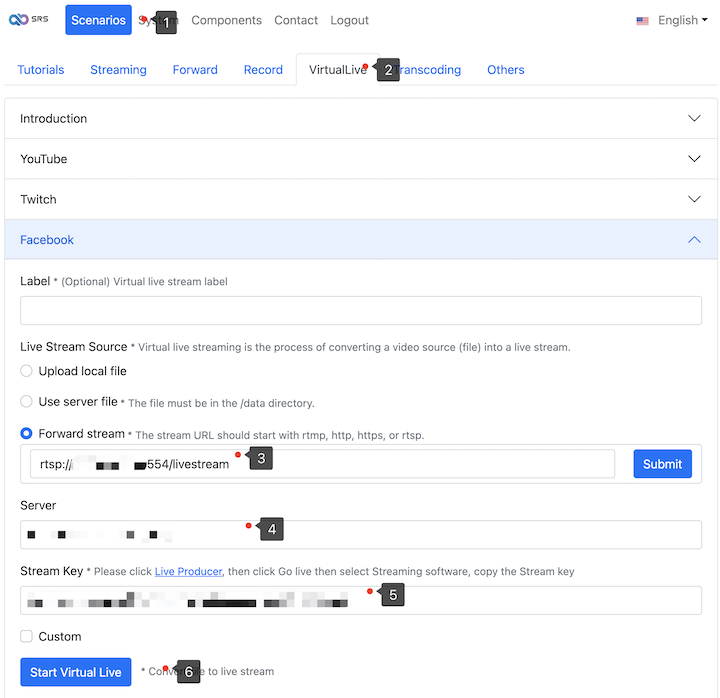
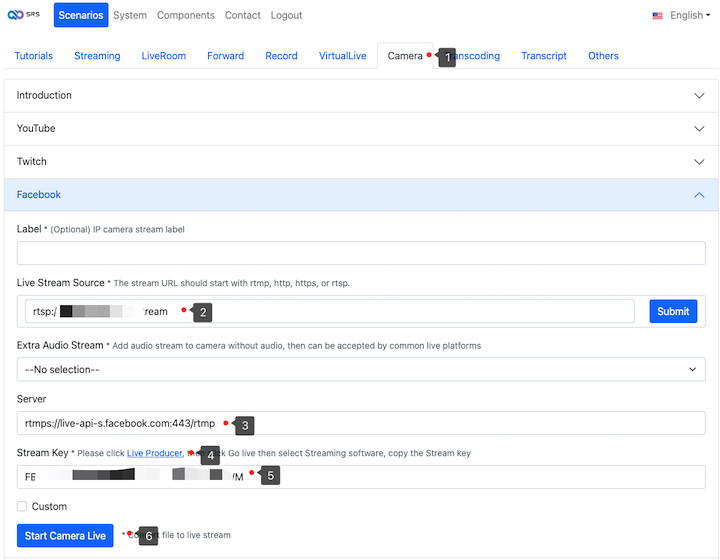
Update doc.

diff --git a/i18n/en-us/docusaurus-plugin-content-blog/2023-10-11-SRS-Stack-Stream-IP-Camera-Events.md b/i18n/en-us/docusaurus-plugin-content-blog/2023-10-11-SRS-Stack-Stream-IP-Camera-Events.md
@@ -27,7 +27,7 @@ IP Camera ---RTSP---> OBS or SRS Stack ---RTMP/RTMPS---> YouTube, Twitch, or Fac
 SRS Stack helps you connect multiple IP cameras and stream live to various platforms, making your live 
 streaming experience stronger.
 
-## Step 1: Create SRS Stack by one click
+## Step 1: Create SRS Stack by One Click
 
 Creating an SRS Stack is simple and can be done with just one click if you use Digital Ocean droplet.
 Please see [How to Setup a Video Streaming Service by 1-Click](./2022-04-09-SRS-Stack-Tutorial.md) for detail.
@@ -44,10 +44,20 @@ After creating the SRS Stack, you can access it through `http://your-server-ip/m
 
 ## Step 2: Pull RTSP Stream from IP Camera
 
-Once you've created your SRS Stack, open the dashboard and navigate to `Scenarios > VirtualLive > YouTube`. 
-Click on `Forward stream`, input the RTSP url, and then click `Submit`.
+Once you've created your SRS Stack, open the dashboard and navigate to `Scenarios > Camera > YouTube`. 
+Click on `Live Stream Source`, input the RTSP url, and then click `Submit`.
 
 ![](/img/blog-2023-10-11-01.png)
+
+## Step 2.1: (Optional) Enable Extra Silent Audio Track
+
+If your camera only provides a video stream, you should enable an additional silent audio track, 
+otherwise, publishing to live platforms like YouTube will fail. SRS Stack can automatically generate 
+a silent audio track for you. Please choose the `Silent Audio Stream` option.
+
+![](/img/blog-2023-10-11-14.png)
+
+SRS Stack will automatically generate a silent audio track, when forwarding the RTSP stream.
 
 ## Step 3: Stream IP Camera to YouTube
 
@@ -55,7 +65,7 @@ To stream your file to YouTube, copy the Stream URL and Stream key from your You
 
 ![](/img/blog-2023-10-11-02.png)
 
-Open the SRS Stack dashboard and click on `Scenarios > VirtualLive > YouTube`. And click `Start Virtual Live` in SRS Stack.
+Open the SRS Stack dashboard and click on `Scenarios > Camera > YouTube`. And click `Start Camera Live` in SRS Stack.
 
 ![](/img/blog-2023-10-11-03.png)
 
@@ -63,9 +73,9 @@ Your stream will now be published on YouTube.
 
 ![](/img/blog-2023-10-11-04.png)
 
-## Step 4: Check virtual live status
+## Step 4: Check Camera Live Status
 
-To monitor the status of your virtual live event, simply check the dashboard. You'll be able to see the status of all your virtual live events, ensuring that everything is running smoothly.
+To monitor the status of your camera live event, simply check the dashboard. You'll be able to see the status of all your camera live events, ensuring that everything is running smoothly.
 
 ![](/img/blog-2023-10-11-05.png)
 
@@ -76,7 +86,7 @@ Twitch [Dashboard](https://www.twitch.tv/dashboard/settings) under `Settings > S
 
 ![](/img/blog-2023-10-11-06.png)
 
-Open the SRS Stack dashboard and click on `Scenarios > VirtualLive > Twitch`. Click `Start Virtual Live` in SRS Stack.
+Open the SRS Stack dashboard and click on `Scenarios > Camera > Twitch`. Click `Start Camera Live` in SRS Stack.
 
 ![](/img/blog-2023-10-11-07.png)
 
@@ -94,7 +104,7 @@ then click `Go live`, and select `Streaming software`.
 
 ![](/img/blog-2023-10-11-10.png)
 
-Open the SRS Stack dashboard and click on `Scenarios > VirtualLive > Facebook`. Click `Start Virtual Live` in SRS Stack, and your stream will be published on Facebook.
+Open the SRS Stack dashboard and click on `Scenarios > Camera > Facebook`. Click `Start Camera Live` in SRS Stack, and your stream will be published on Facebook.
 
 ![](/img/blog-2023-10-11-11.png)
 

diff --git a/i18n/en-us/docusaurus-plugin-content-blog/2023-09-09-SRS-Stack-Multi-Platform-Streaming.md b/i18n/en-us/docusaurus-plugin-content-blog/2023-09-09-SRS-Stack-Multi-Platform-Streaming.md
@@ -14,7 +14,7 @@ In today's digital world, live streaming has become an essential tool for busine
 
 SRS Stack is a powerful and easy-to-use solution that allows you to live stream to multiple platforms with just a few clicks. It also enables you to stream to your own platform or even set up an intranet live stream within your company. Let's dive into the steps to set up live streaming on multiple platforms using SRS Stack.
 
-### Step 1: Create SRS Stack by one click
+### Step 1: Create SRS Stack by One Click
 
 Creating an SRS Stack is simple and can be done with just one click if you use Digital Ocean droplet.
 Please see [How to Setup a Video Streaming Service by 1-Click](./2022-04-09-SRS-Stack-Tutorial.md) for detail.

diff --git a/i18n/zh-cn/docusaurus-plugin-content-blog/2023-09-10-SRS-Stack-Record-Live-Streaming.md b/i18n/zh-cn/docusaurus-plugin-content-blog/2023-09-10-SRS-Stack-Record-Live-Streaming.md
@@ -17,7 +17,7 @@ custom_edit_url: null
 直播流越来越受欢迎，许多内容创作者希望录制他们的直播流以供日后使用或为观众提供视频点播（VoD）内容。虽然有多种方法可以录制直播流，
 例如使用OBS，但一些嵌入式设备可能不支持录制或可能难以控制。在这种情况下，服务器端录制可能是一个更有效的解决方案。
 
-### Step 1: Create SRS Stack by one click
+### Step 1: Create SRS Stack by One Click
 
 如果您使用腾讯云轻量服务器，只需点击一下即可创建SRS Stack。请参考 [SRS Stack - 起步、购买和入门](./2022-04-09-SRS-Stack-Tutorial.md) 这个博客。
 

diff --git a/i18n/zh-cn/docusaurus-plugin-content-blog/2023-12-12-SRS-Stack-OBS-WHIP-Service.md b/i18n/zh-cn/docusaurus-plugin-content-blog/2023-12-12-SRS-Stack-OBS-WHIP-Service.md
@@ -19,7 +19,7 @@ custom_edit_url: null
 加入我们，打破在线流媒体的障碍，帮助您充分利用OBS的WHIP支持。我们易于理解的、分步教程将使您能够创建一个安全高效的WHIP服务，
 彻底改变您的在线会议和直播体验。不要再让技术挑战阻碍您前进 - 深入了解我们的指南，从今天开始像专业人士一样进行流媒体！
 
-### Step 1: Create SRS Stack by one click
+### Step 1: Create SRS Stack by One Click
 
 如果您使用腾讯云轻量服务器，只需点击一下即可创建SRS Stack。请参考 [SRS Stack - 起步、购买和入门](./2022-04-09-SRS-Stack-Tutorial.md) 这个博客。
 

diff --git a/i18n/zh-cn/docusaurus-plugin-content-blog/2023-09-09-SRS-Stack-Multi-Platform-Streaming.md b/i18n/zh-cn/docusaurus-plugin-content-blog/2023-09-09-SRS-Stack-Multi-Platform-Streaming.md
@@ -14,7 +14,7 @@ custom_edit_url: null
 
 SRS Stack是一种功能强大且易于使用的解决方案，只需点击几下鼠标即可在多个平台上进行直播。它还允许您将内容流式传输到自己的平台，甚至在公司内部设置内部网直播。让我们深入了解如何使用SRS Stack在多个平台上设置直播。
 
-### Step 1: Create SRS Stack by one click
+### Step 1: Create SRS Stack by One Click
 
 如果您使用腾讯云轻量服务器，只需点击一下即可创建SRS Stack。请参考 [SRS Stack - 起步、购买和入门](./2022-04-09-SRS-Stack-Tutorial.md) 这个博客。
 

diff --git a/i18n/en-us/docusaurus-plugin-content-blog/2023-09-10-SRS-Stack-Record-Live-Streaming.md b/i18n/en-us/docusaurus-plugin-content-blog/2023-09-10-SRS-Stack-Record-Live-Streaming.md
@@ -21,7 +21,7 @@ for later use or to provide their audience with video-on-demand (VoD) content. W
 methods to record live streams, such as using OBS, some embedded devices may not support recording or 
 may be difficult to control. In such cases, server-side recording can be a more efficient solution. 
 
-### Step 1: Create SRS Stack by one click
+### Step 1: Create SRS Stack by One Click
 
 Creating an SRS Stack is simple and can be done with just one click if you use Digital Ocean droplet.
 Please see [How to Setup a Video Streaming Service by 1-Click](./2022-04-09-SRS-Stack-Tutorial.md) for detail.

diff --git a/i18n/en-us/docusaurus-plugin-content-blog/2023-09-11-SRS-Stack-Virtual-Live-Events.md b/i18n/en-us/docusaurus-plugin-content-blog/2023-09-11-SRS-Stack-Virtual-Live-Events.md
@@ -30,7 +30,7 @@ In today's fast-paced world, virtual live events are becoming increasingly popul
 they offer. Whether it's a concert, a soccer game, or an online course, you can now create a virtual live 
 event with your video files, making them more interactive and accessible to a wider audience. 
 
-## Step 1: Create SRS Stack by one click
+## Step 1: Create SRS Stack by One Click
 
 Creating an SRS Stack is simple and can be done with just one click if you use Digital Ocean droplet.
 Please see [How to Setup a Video Streaming Service by 1-Click](./2022-04-09-SRS-Stack-Tutorial.md) for detail.

diff --git a/i18n/en-us/docusaurus-plugin-content-blog/2023-12-12-SRS-Stack-OBS-WHIP-Service.md b/i18n/en-us/docusaurus-plugin-content-blog/2023-12-12-SRS-Stack-OBS-WHIP-Service.md
@@ -23,7 +23,7 @@ WHIP support. Our easy-to-understand, step-by-step tutorial will empower you to 
 WHIP service, revolutionizing your online meeting and live streaming experience. Don't let technical 
 challenges hold you back any longer - dive into our guide and start streaming like a pro today!
 
-## Step 1: Create SRS Stack by one click
+## Step 1: Create SRS Stack by One Click
 
 Creating an SRS Stack is simple and can be done with just one click if you use Digital Ocean droplet.
 Please see [How to Setup a Video Streaming Service by 1-Click](./2022-04-09-SRS-Stack-Tutorial.md) for detail.

diff --git a/i18n/en-us/docusaurus-plugin-content-blog/2023-10-21-SRS-Stack-Live-Transcoding.md b/i18n/en-us/docusaurus-plugin-content-blog/2023-10-21-SRS-Stack-Live-Transcoding.md
@@ -32,7 +32,7 @@ varying internet speeds and devices.
 Stay tuned as we delve deeper into the world of live streaming transcoding, and learn how to harness the power 
 of SRS Stack to optimize your streaming experience and save costs.
 
-## Step 1: Create SRS Stack by one click
+## Step 1: Create SRS Stack by One Click
 
 Creating an SRS Stack is simple and can be done with just one click if you use Digital Ocean droplet.
 Please see [How to Setup a Video Streaming Service by 1-Click](./2022-04-09-SRS-Stack-Tutorial.md) for detail.

diff --git a/i18n/en-us/docusaurus-plugin-content-blog/2023-11-28-SRS-Stack-Live-Streams-Transcription.md b/i18n/en-us/docusaurus-plugin-content-blog/2023-11-28-SRS-Stack-Live-Streams-Transcription.md
@@ -30,7 +30,7 @@ technologies with just one click.
 Join us as we step into the AI-powered future of live streaming, where accessibility and inclusivity 
 are key, making your content enjoyable and accessible to a much wider audience.
 
-## Step 1: Create SRS Stack by one click
+## Step 1: Create SRS Stack by One Click
 
 Creating an SRS Stack is simple and can be done with just one click if you use Digital Ocean droplet.
 Please see [How to Setup a Video Streaming Service by 1-Click](./2022-04-09-SRS-Stack-Tutorial.md) for detail.
